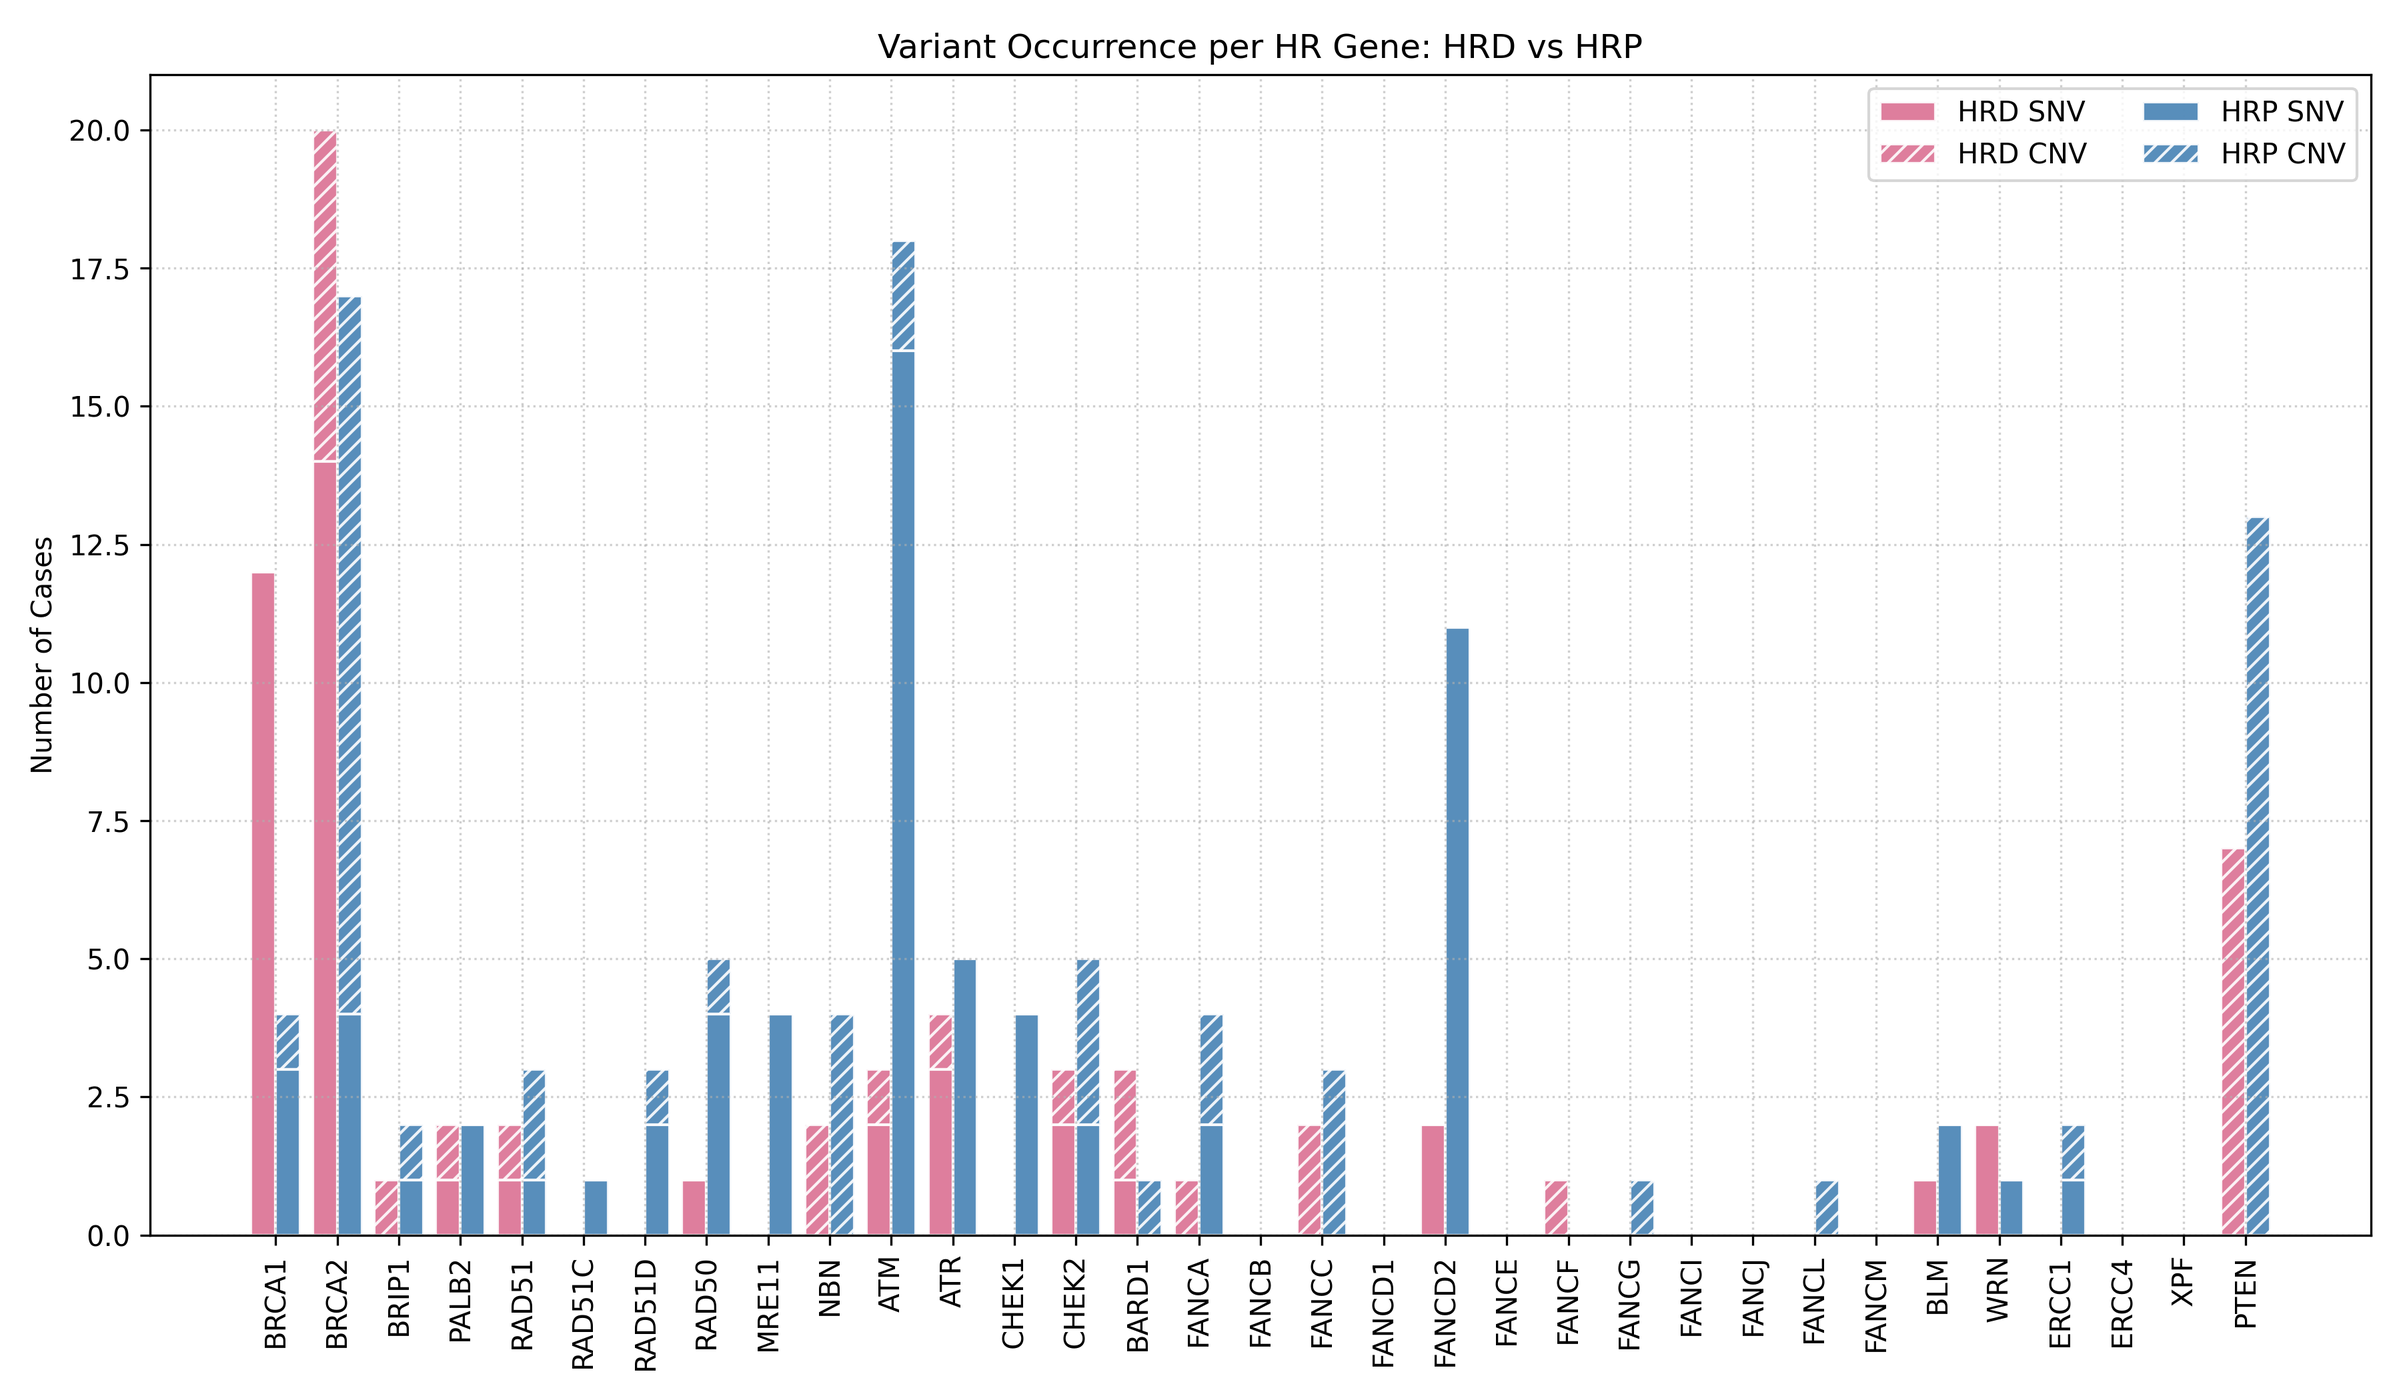
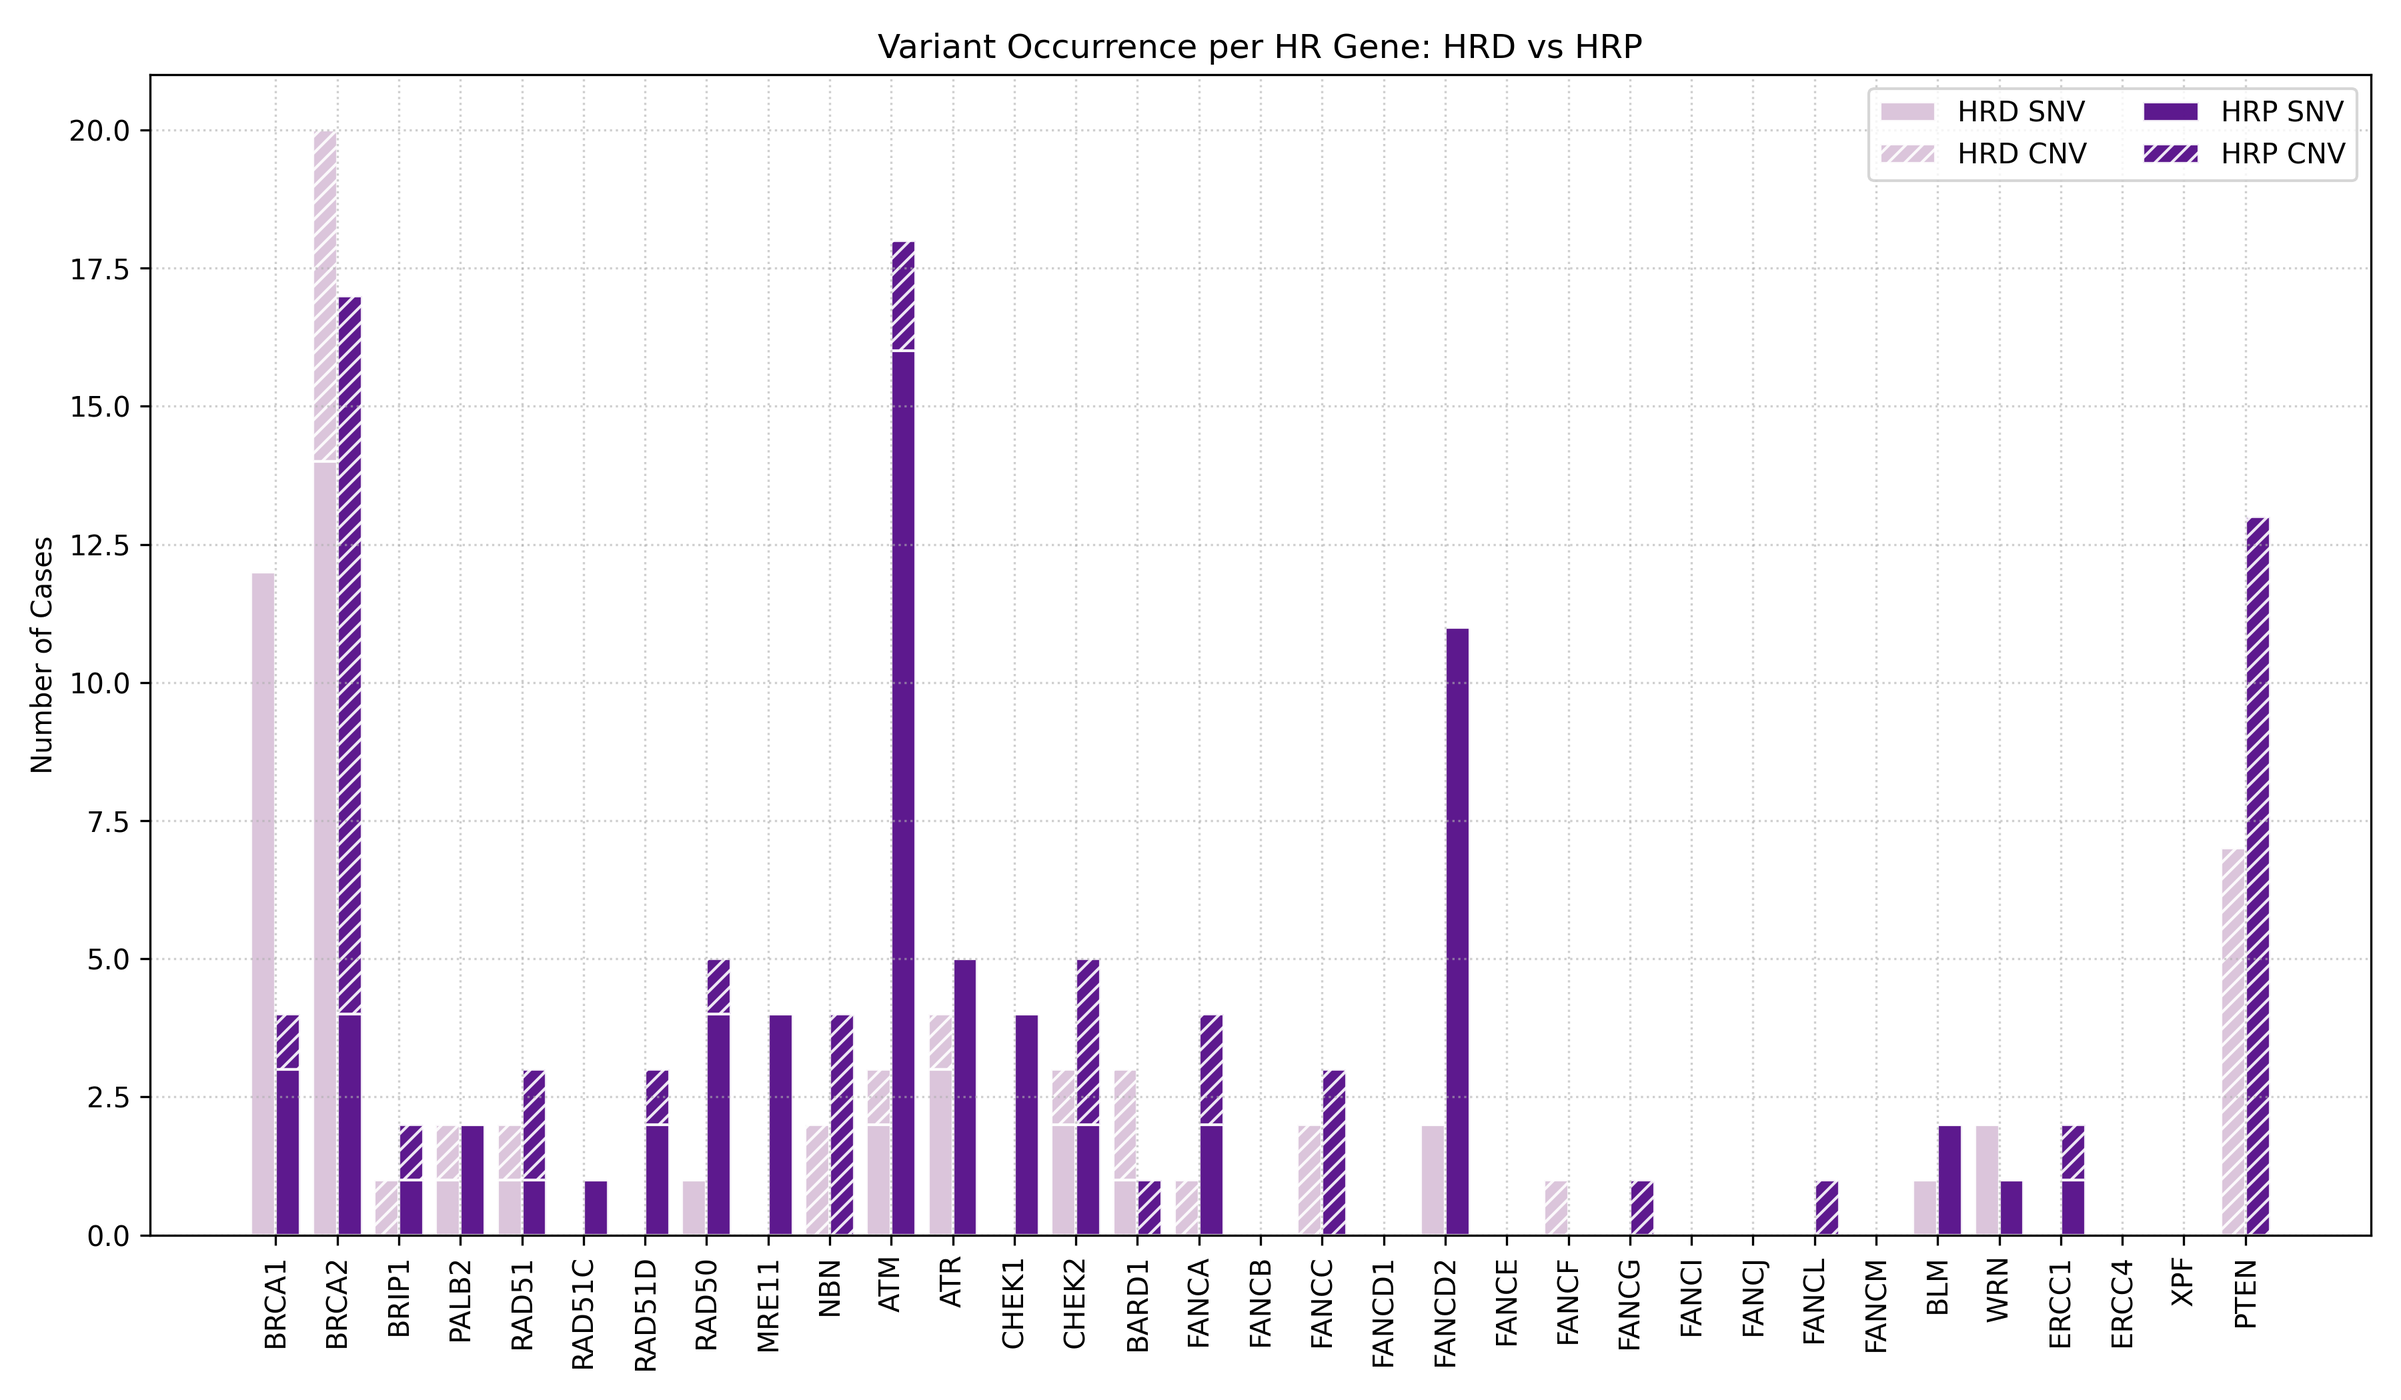
Update figures

diff --git a/3_dataVisualization/distribution_by_field/distribution_full.py b/3_dataVisualization/distribution_by_field/distribution_full.py
@@ -1,6 +1,4 @@
-""" Summary tables and figures
-python3 distribution_full.py --summary_csv input.csv --output_dir output_folder/
-"""
+""" Summary tables and figures """
 import os
 import argparse
 import pandas as pd
@@ -23,15 +21,6 @@ combined = {}
 df["oncotree_code"] = df["oncotree_code"].apply(lambda x: "Other" if isinstance(x, str) and " " in x else x)
 df["oncotree_code"] = df["oncotree_code"].astype(str).replace({"nan": "Blank", "": "Blank", "None": "Blank"})
 
-# Count number of cases (blank and non-blank rows)
-def count_nonblank(series):
-    s = series.astype(str).str.strip()
-    return (s != "").sum()
-def count_blank(series):
-    s = series.astype(str).str.strip()
-    return (s = "").sum()
-
-# Create figures and cleaned summary table
 with pd.ExcelWriter(out("summary_clean.xlsx")) as writer:
     # 1) OncoTree
     oncotree_counts = df["oncotree_code"].fillna("Blank").value_counts()
@@ -126,7 +115,7 @@ with pd.ExcelWriter(out("summary_clean.xlsx")) as writer:
     combined["fusion_count"] = fusion_counts
 
     # 6) TMB
-    tmb = pd.to_numeric(df["tmb_value"], errors="coerce")
+    tmb = pd.to_numeric(df["TMB"], errors="coerce")
     bins = np.arange(0, 51, 1)
     counts, edges = np.histogram(tmb.dropna(), bins=bins)
 
@@ -140,8 +129,8 @@ with pd.ExcelWriter(out("summary_clean.xlsx")) as writer:
 
     plt.figure(figsize=(12,7))
     plt.bar(tmb_hist["TMB_Range(Mb)"], tmb_hist["Count"], color="steelblue", edgecolor="white", alpha=0.9)
-    plt.title("Distribution of Cases by TMB per Mb (1-50 mut/Mb)")
-    plt.xlabel("TMB Range (per Mb)")
+    plt.title("Distribution of Cases by TMB Value")
+    plt.xlabel("TMB Range (Mb)")
     plt.ylabel("Count")
     plt.grid(True, linestyle=":", alpha=0.6)
     plt.xticks(rotation=90)
@@ -225,12 +214,3 @@ with pd.ExcelWriter(out("summary_clean.xlsx")) as writer:
     plt.tight_layout()
     plt.savefig(out("purity_histogram.png"))
     plt.close()
-
-    # Total counts sheet
-    totals = pd.DataFrame({
-        "Parameters": ["oncotree_code", "snv_count", "cnv_amp", "cnv_del", "pga", "fusion", "tmb", "msi", "hrd", "purity"],
-        "Total_Cases": [count_nonblank(df["oncotree_code"]), count_nonblank(df["snv_genes"]), count_nonblank(df["cnv_genes"]), count_nonblank(df["cnv_genes"]), count_nonblank(df["pga"]), count_nonblank(df["fusions"]), count_nonblank(df["tmb_value"]), count_nonblank(df["msi_status"]), count_nonblank(df["hrd_value"]), count_nonblank(df["purity"])],
-        "Total_Blanks": [count_blank(df["oncotree_code"]), count_blank(df["snv_genes"]), count_blank(df["cnv_genes"]), count_blank(df["cnv_genes"]), count_blank(df["pga"]), count_blank(df["fusions"]), count_blank(df["tmb_value"]), count_blank(df["msi_status"]), count_blank(df["hrd_value"]), count_blank(df["purity"])]
-    })
-
-    totals.to_excel(writer, sheet_name="totals", index=False)

diff --git a/3_dataVisualization/low_purity/failed_by_purity.py b/3_dataVisualization/low_purity/failed_by_purity.py
@@ -1,0 +1,55 @@
+""" Assess rate of failed reporty due to purity threshold """
+
+import pandas as pd
+import argparse
+import matplotlib.pyplot as plt
+
+def main():
+    parser = argparse.ArgumentParser(description="Calculate low-purity failure rate.")
+    parser.add_argument("--input_csv", required=True, help="Path to summary CSV file")
+    args = parser.parse_args()
+
+    df = pd.read_csv(args.input_csv)
+    df_purity = df[(df["purity"].notna()) & (df["purity"].astype(str).str.strip() != "")]
+    df_purity["purity"] = df_purity["purity"].astype(float)
+
+    failed_purity = df_purity[(df_purity["purity"] < 0.3) & (df_purity["failed"] == True)]
+    total_failed_purity = len(failed_purity)
+    total_all = len(df_purity)
+    failure_rate = (total_failed_purity / total_all) * 100
+
+    print(f"Input CSV: {args.input_csv}")
+    print(f"Total low-purity fails: {total_failed_purity}")
+    print(f"Total reports (all): {total_all}")
+    print(f"Percentage: {round(failure_rate, 2)}%")
+
+
+    # Plot
+    project_counts = (df_purity[df_purity["purity"] < 0.3].groupby("project").size().reset_index(name="low_purity_fails"))
+    print(f"Low purity fails by project:\n {project_counts.to_string(index=False)}")
+    
+    project_totals = (df_purity.groupby("project").size().reset_index(name="total_reports"))
+    merged = project_totals.merge(project_counts, on="project", how="left")
+    merged["low_purity_fails"] = merged["low_purity_fails"].fillna(0).astype(int)
+    merged["other_reports"] = merged["total_reports"]-merged["low_purity_fails"]
+    merged["percent_low_purity"] = (merged["low_purity_fails"]/merged["total_reports"]) * 100
+    merged = merged[merged["low_purity_fails"] > 0]
+    merged = merged.reset_index(drop=True)
+    
+    plt.figure(figsize=(12,7))
+    plt.bar(merged["project"], merged["low_purity_fails"], label="Low-purity fails", color="indigo")
+    plt.bar(merged["project"], merged["other_reports"], bottom=merged["low_purity_fails"], label="Total reports", color="thistle")
+    plt.xlabel("project")
+    plt.ylabel("Report Count")
+    plt.title("Low-Purity Failures by project (purity < 0.3)")
+    plt.xticks(rotation=45, ha="right")
+    plt.grid(True, linestyle=":", alpha=0.6)
+    plt.legend()
+    for index, row in merged.iterrows():
+        plt.text(index, row["total_reports"] + 0.5, f"{round(row['percent_low_purity'], 2)}%", ha="center", va="bottom", fontsize=9)
+    plt.tight_layout()
+    plt.savefig("lowpurityfail_by_project.png", dpi=300)
+    plt.close()
+
+if __name__ == "__main__":
+    main()

diff --git a/3_dataVisualization/hr_genes/nonHR_genes.py b/3_dataVisualization/hr_genes/nonHR_genes.py
@@ -1,0 +1,67 @@
+""" Top 25  non-HR genes in HRD cases containing no HR genes
+  - Input: .csv of summary table (HRD cases) """
+
+
+import pandas as pd
+import numpy as np
+import matplotlib.pyplot as plt
+
+def nonhr_count(df, col, hr_genes):
+   counts = {}
+   hr_set = set(g.upper() for g in hr_genes)
+
+   for cell in df[col].dropna():
+       for g in [x.strip().upper() for x in cell.split(",") if x.strip()]:
+           if g not in hr_set:
+               counts[g] = counts.get(g, 0) + 1
+   return counts
+
+def plot_nonhr(csv_hrd, hr_genes, top_n=25):
+   df = pd.read_csv(csv_hrd)
+
+   hr_set = set(g.upper() for g in hr_genes)
+   def has_hr_variant(row):
+       for col in ["snv_genes", "cnv_genes", "fusion_genes"]:
+           if col in row and pd.notna(row[col]):
+               genes = [x.strip().upper() for x in row[col].split(",") if x.strip()]
+               if any(g in hr_set for g in genes):
+                   return True
+       return False
+
+   df = df[~df.apply(has_hr_variant, axis=1)]
+
+   snv = nonhr_count(df, "snv_genes", hr_genes)
+   cnv = nonhr_count(df, "cnv_genes", hr_genes)
+
+   all_genes = sorted(set(snv) | set(cnv))
+   table = pd.DataFrame({
+       "Gene": all_genes,
+       "SNV": [snv.get(g, 0) for g in all_genes],
+       "CNV": [cnv.get(g, 0) for g in all_genes]})
+
+   table["Total"] = table["SNV"] + table["CNV"]
+   table = table[table["Total"] > 0].sort_values("Total", ascending=False)
+   table = table.head(top_n)
+
+   # Plot
+   x = np.arange(len(table))
+   plt.figure(figsize=(12, 7))
+
+   plt.bar(x, table["SNV"], 0.6, color="thistle", edgecolor="white", alpha=0.9, label="SNV")
+   plt.bar(x, table["CNV"], 0.6, bottom=table["SNV"], color="indigo", edgecolor="white", alpha=0.9,label="CNV")
+   
+   plt.xticks(x, table["Gene"], rotation=90)
+   plt.xlabel("Non-HR Gene")
+   plt.ylabel("Number of Cases")
+   plt.title(f"Top 25 Non‑HR Genes in HRD Cases Containing No HR Genes")
+   plt.grid(True, linestyle=":", alpha=0.6)
+   plt.legend()
+   plt.tight_layout()
+   plt.savefig("nonHR_genes_top25.png", dpi=300)
+   plt.close()
+
+   return table
+
+# Test run: HRD cases against HR genes
+genes = ["BRCA1","BRCA2","BRIP1","PALB2","RAD51","RAD51C","RAD51D","RAD50","MRE11","NBN","ATM","ATR","CHEK1","CHEK2","BARD1","FANCA","FANCB","FANCC","FANCD1","FANCD2","FANCE","FANCF","FANCG","FANCI","FANCJ","FANCL","FANCM","BLM","WRN","ERCC1","ERCC4","XPF","PTEN"]
+plot_nonhr("summary_hrd.csv", genes)

diff --git a/3_dataVisualization/prspr_genes/kras_variants.py b/3_dataVisualization/prspr_genes/kras_variants.py
@@ -1,0 +1,63 @@
+""" KRAS-specific variant recurrence in PRSPR cases 
+    - Input: .csv of summary table (all PRSPR) """
+
+import pandas as pd
+import numpy as np
+import matplotlib.pyplot as plt
+
+def extract_variants(df, gene):
+    gene = gene.upper()
+    variants = []
+
+    for _, row in df.iterrows():
+        if pd.isna(row["snv_genes"]) or pd.isna(row["snv_protein"]):
+            continue
+    
+        genes = [g.strip().upper() for g in row["snv_genes"].split(",")]
+        variant = [p.strip() for p in row["snv_protein"].split(",")]
+
+        if len(genes) != len(variant):
+            continue
+
+        for g, v in zip(genes, variant):
+            if g == gene:
+                variants.append(v)
+    return variants
+
+def count_variants(vars):
+    counts = {}
+    for v in vars:
+        counts[v] = counts.get(v, 0) + 1
+    return counts
+
+def plot_variants(csv):
+    df = pd.read_csv(csv)
+    total_cases = len(df)
+
+    variants = extract_variants(df, "KRAS")
+    counts = count_variants(variants)
+    variant_names = list(counts.keys())
+    values = list(counts.values())
+    percentage = [(v/total_cases)*100 for v in values]
+
+    # Plot
+    x = np.arange(len(variant_names))
+    plt.figure(figsize=(12, 7))
+
+    plt.bar(x, values, 0.6, color="indigo", edgecolor="white", alpha=0.9)
+
+    for index, (count, percent) in enumerate(zip(values, percentage)):
+        plt.text(index, count + 0.3, f"{round(percent, 2)}%", ha="center", va="bottom", fontsize=9)
+    
+    plt.xticks(x, variant_names, rotation=45, ha="right")
+    plt.xlabel("Recurring Variants")
+    plt.ylabel("Number of Cases")
+    plt.title(f"Recurrence of KRAS SNVs in PRSPR Cases")
+    plt.grid(True, linestyle=":", alpha=0.6)
+    plt.tight_layout()
+    plt.savefig("kras_variant_recurrence.png", dpi=300)
+    plt.close()
+
+    return counts
+
+plot_variants("summary_prspr.csv")

diff --git a/3_dataVisualization/prspr_genes/topgene_recurrence.py b/3_dataVisualization/prspr_genes/topgene_recurrence.py
@@ -1,0 +1,54 @@
+""" Occurrences of top four pancreatic cancer genes (KRAS, TP53, CDKN2A, SMAD4) 
+    - Input: .csv of summary table (all PRSPR) """
+
+import pandas as pd
+import numpy as np
+import matplotlib.pyplot as plt
+
+def count_genes(df, col, genes):
+    counts = {g: 0 for g in genes}
+    for cell in df[col].dropna():
+        for g in [x.strip().upper() for x in cell.split(",") if x.strip()]:
+            if g in counts:
+                counts[g] += 1
+    return counts
+
+def plot_topgenes(csv):
+    df = pd.read_csv(csv)
+    genes = ["KRAS", "TP53", "CDKN2A", "SMAD4"]
+    total_cases = len(df)
+
+    snv = count_genes(df, "snv_genes", genes)
+    cnv = count_genes(df, "cnv_genes", genes)
+
+    table = pd.DataFrame({
+       "Gene": genes,
+       "SNV": [snv.get(g, 0) for g in genes],
+       "CNV": [cnv.get(g, 0) for g in genes]})
+    
+    table["Total"] = table["SNV"] + table["CNV"]
+    table["Percent"] = (table["Total"] / total_cases) * 100
+
+    # Plot
+    x = np.arange(len(genes))
+    plt.figure(figsize=(12, 7))
+
+    plt.bar(x, table["SNV"], 0.6, color="thistle", edgecolor="white", alpha=0.9, label="SNV")
+    plt.bar(x, table["CNV"], 0.6, bottom=table["SNV"], color="indigo", edgecolor="white", alpha=0.9,label="CNV")
+
+    for index, row in table.iterrows():
+        plt.text(index, row["Total"] + 0.5, f"{round(row['Percent'], 2)}%", ha="center", va="bottom", fontsize=9)
+    
+    plt.xticks(x, genes)
+    plt.xlabel("Candidate Genes")
+    plt.ylabel("Number of Cases")
+    plt.title(f"Recurrence of Key Pancreatic Cancer Genes in PRSPR Cases")
+    plt.grid(True, linestyle=":", alpha=0.6)
+    plt.legend()
+    plt.tight_layout()
+    plt.savefig("gene_recurrence.png", dpi=300)
+    plt.close()
+
+    return table
+
+plot_topgenes("summary_prspr.csv")

diff --git a/3_dataVisualization/hr_genes/combine_gene_by_status.py b/3_dataVisualization/hr_genes/combine_gene_by_status.py
@@ -33,11 +33,11 @@ def plot_combine(csv1, csv2, genes):
     x = np.arange(len(genes)) * 1.5
     plt.figure(figsize=(12,7))
 
-    plt.bar(x - 0.3, plot_df["SNV_HRD"], w, color="palevioletred", edgecolor="white", alpha=0.9, label="HRD SNV")
-    plt.bar(x - 0.3, plot_df["CNV_HRD"], w, bottom=plot_df["SNV_HRD"], color="palevioletred", edgecolor="white", alpha=0.9, hatch="////", label="HRD CNV")
+    plt.bar(x - 0.3, plot_df["SNV_HRD"], 0.6, color="thistle", edgecolor="white", alpha=0.9, label="HRD SNV")
+    plt.bar(x - 0.3, plot_df["CNV_HRD"], 0.6, bottom=plot_df["SNV_HRD"], color="thistle", edgecolor="white", alpha=0.9, hatch="////", label="HRD CNV")
 
-    plt.bar(x + 0.3, plot_df["SNV_HRP"], w, color="steelblue", edgecolor="white", alpha=0.9, label="HRP SNV")
-    plt.bar(x + 0.3, plot_df["CNV_HRP"], w, bottom=plot_df["SNV_HRP"], color="steelblue", edgecolor="white", alpha=0.9, hatch="////", label="HRP CNV")
+    plt.bar(x + 0.3, plot_df["SNV_HRP"], 0.6, color="indigo", edgecolor="white", alpha=0.9, label="HRP SNV")
+    plt.bar(x + 0.3, plot_df["CNV_HRP"], 0.6, bottom=plot_df["SNV_HRP"], color="indigo", edgecolor="white", alpha=0.9, hatch="////", label="HRP CNV")
 
     plt.xticks(x, genes, rotation=90)
     plt.ylabel("Number of Cases")
@@ -51,5 +51,4 @@ def plot_combine(csv1, csv2, genes):
 
 # Test run: HRD cases against HR genes
 genes = ["BRCA1","BRCA2","BRIP1","PALB2","RAD51","RAD51C","RAD51D","RAD50","MRE11","NBN","ATM","ATR","CHEK1","CHEK2","BARD1","FANCA","FANCB","FANCC","FANCD1","FANCD2","FANCE","FANCF","FANCG","FANCI","FANCJ","FANCL","FANCM","BLM","WRN","ERCC1","ERCC4","XPF","PTEN"]
-
 plot_combine("summary_hrd.csv", "summary_hrp.csv", genes)

diff --git a/3_dataVisualization/README.md b/3_dataVisualization/README.md
@@ -37,3 +37,9 @@ Distribution plots can allow for view of non-numerical bins.
 Plotting the number of occurrences of variants (SNV, CNV) in the HR gene by HR status (HRD, HRP).
 ![HR Genes](hr_genes/combined_plot.png)
 
+
+<br>
+
+## Distribution of Low-Purity Fails by Project
+Plotting failed reports with low purity scores by project, with ratio to total reports along with rate visualized.
+![Low-Purity Fails by Project](low_purity/lowpurityfail_by_project.png)
